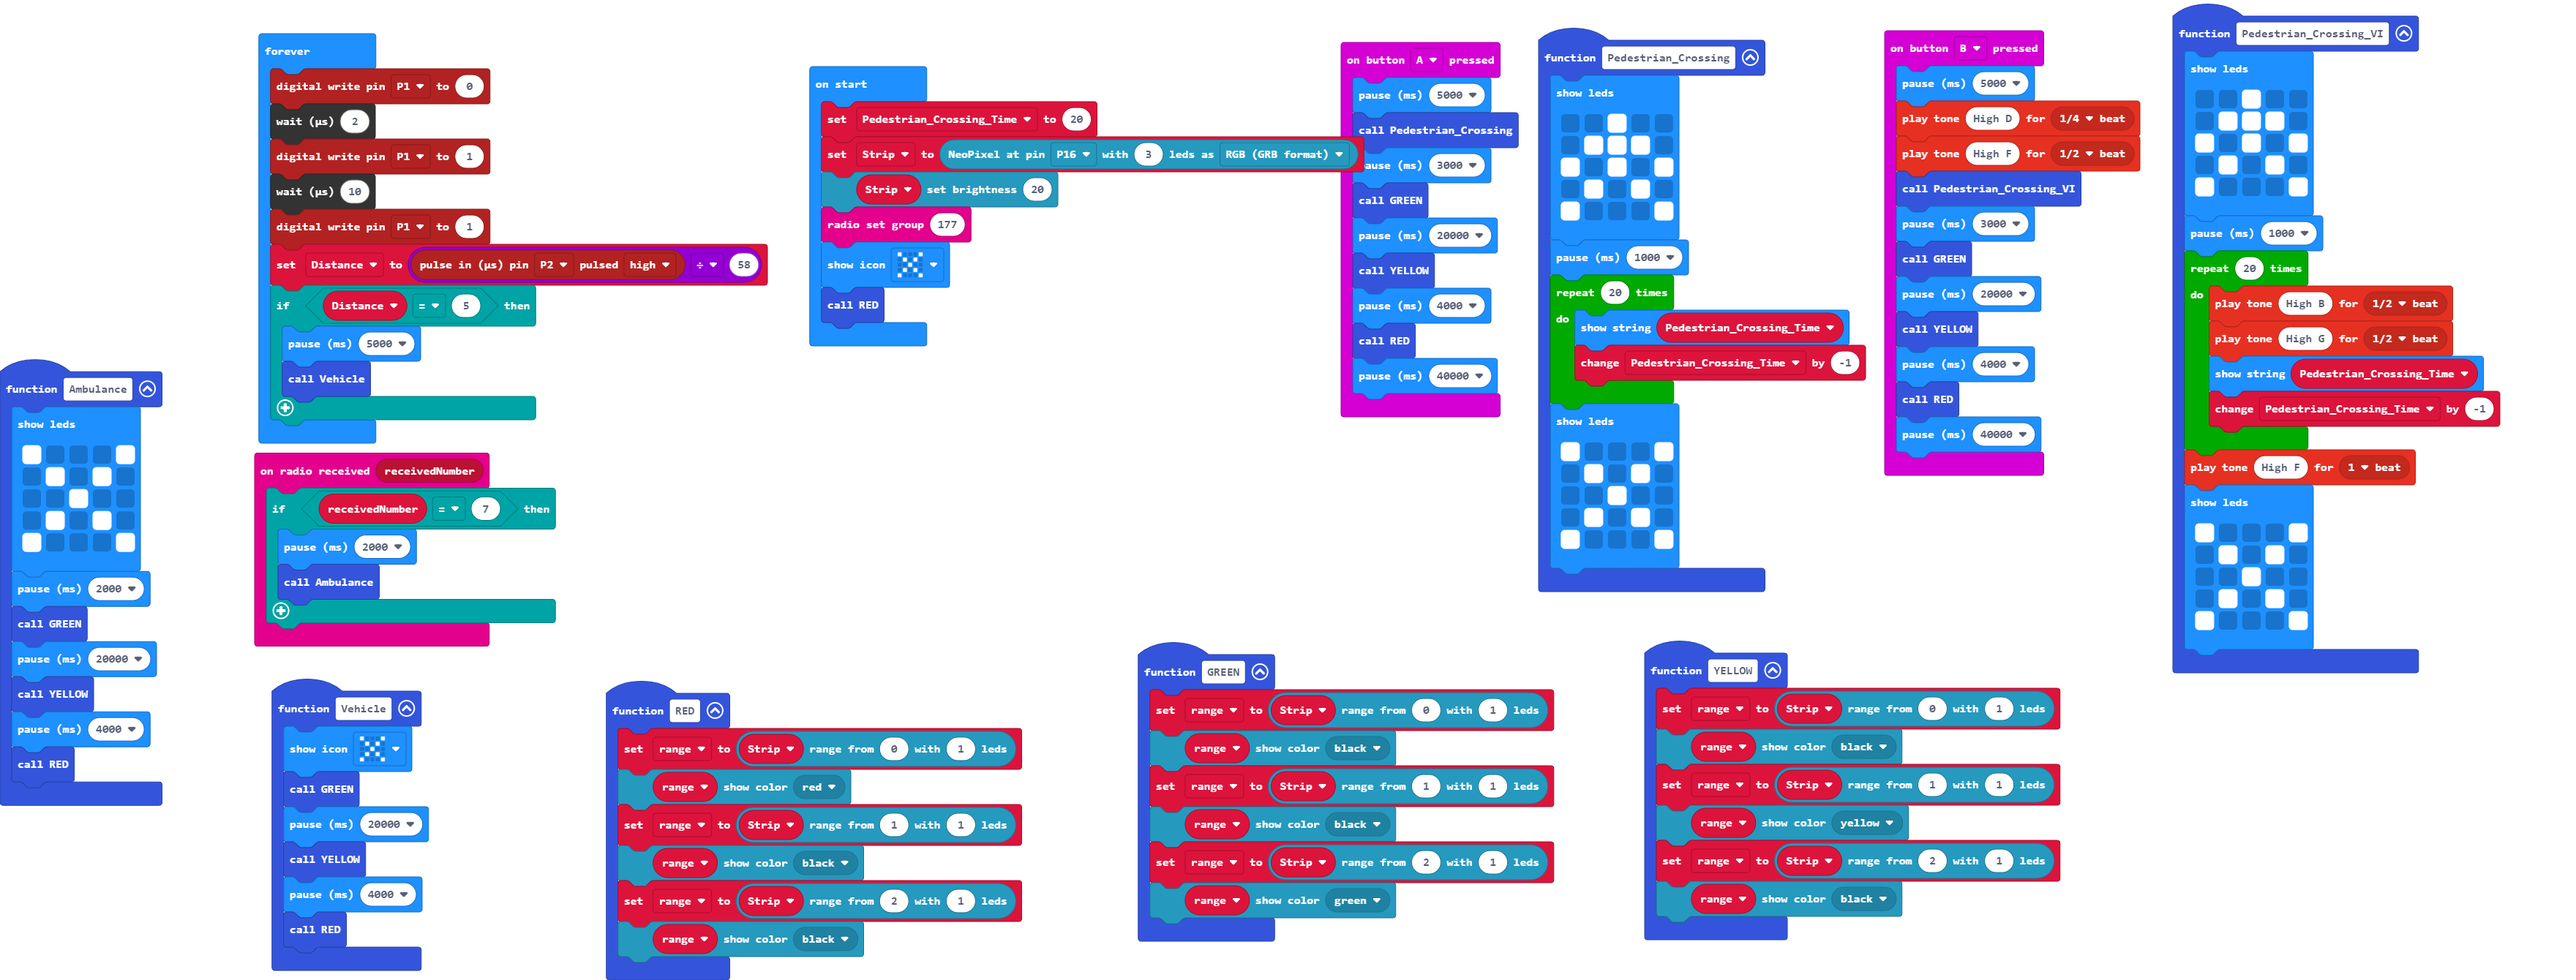
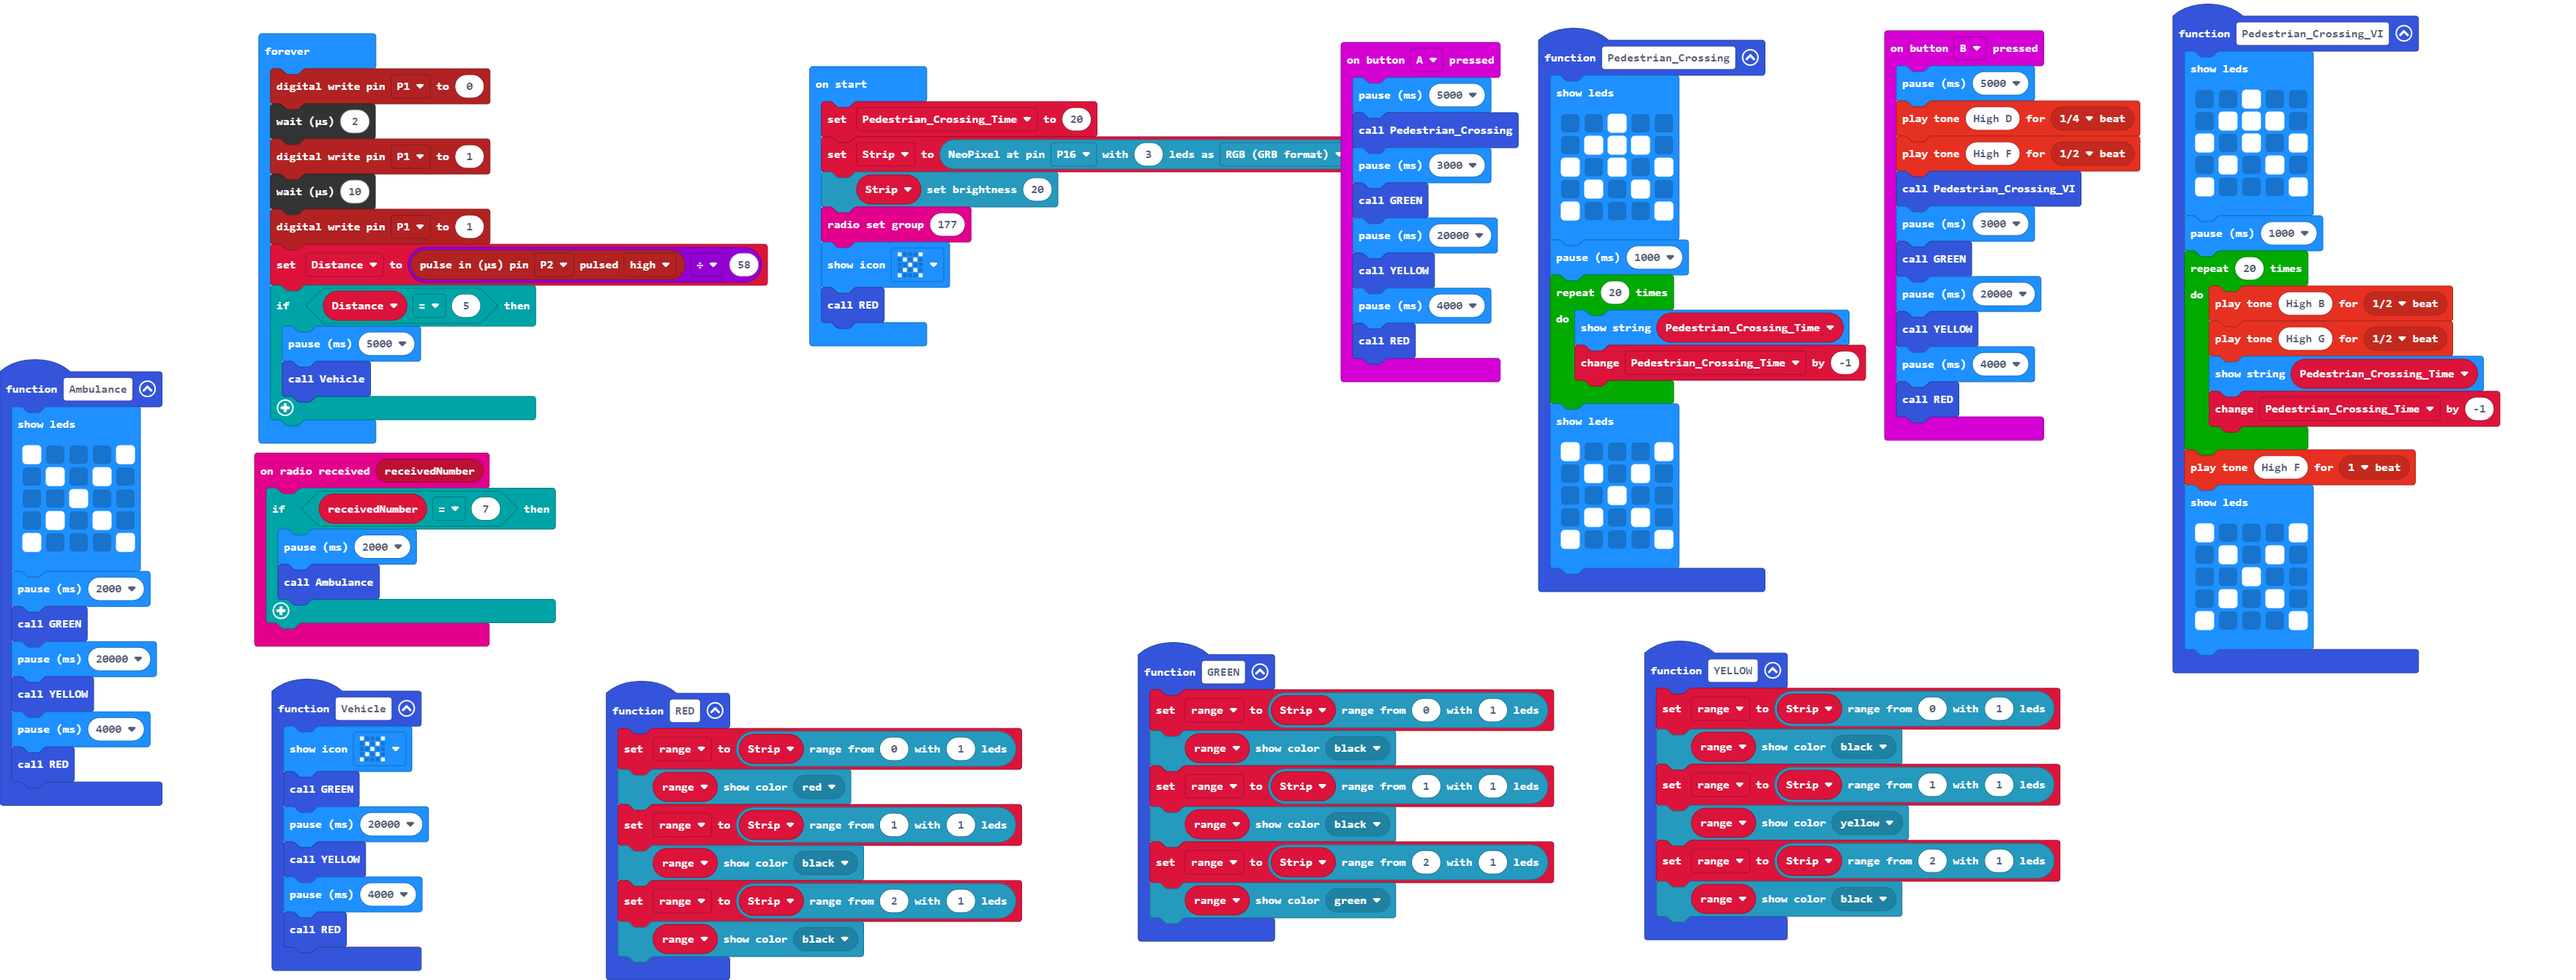
Update main.blocks, main.ts

Changed region(s): [[0.7185, 0.3978, 0.8123, 0.4896], [0.4999, 0.3672, 0.5936, 0.4284], [0.4999, 0.1224, 0.5311, 0.1836]]

diff --git a/main.ts b/main.ts
@@ -34,7 +34,6 @@ input.onButtonPressed(Button.A, function () {
     YELLOW()
     basic.pause(4000)
     RED()
-    basic.pause(40000)
 })
 function RED () {
     range = Strip.range(0, 1)
@@ -86,7 +85,6 @@ input.onButtonPressed(Button.B, function () {
     YELLOW()
     basic.pause(4000)
     RED()
-    basic.pause(40000)
 })
 function Pedestrian_Crossing_VI () {
     basic.showLeds(`
